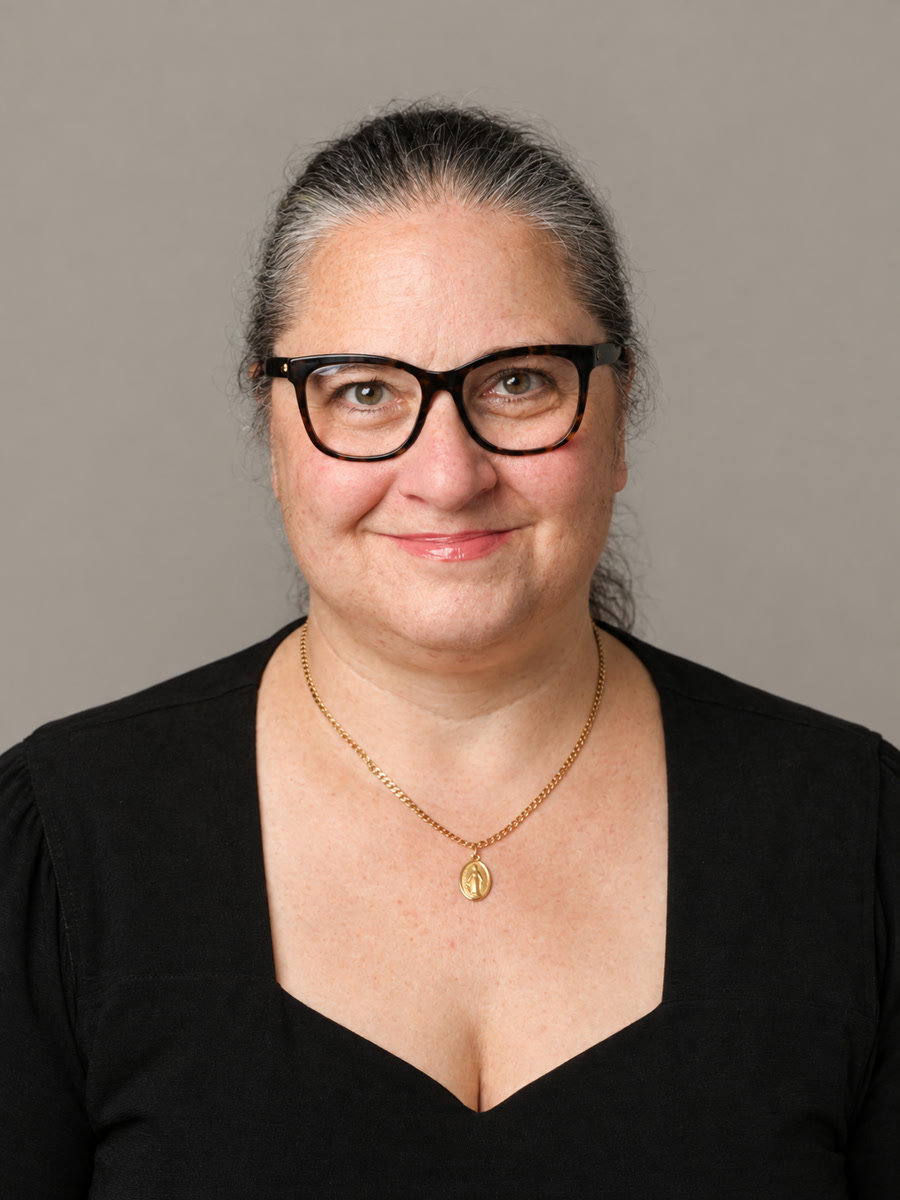
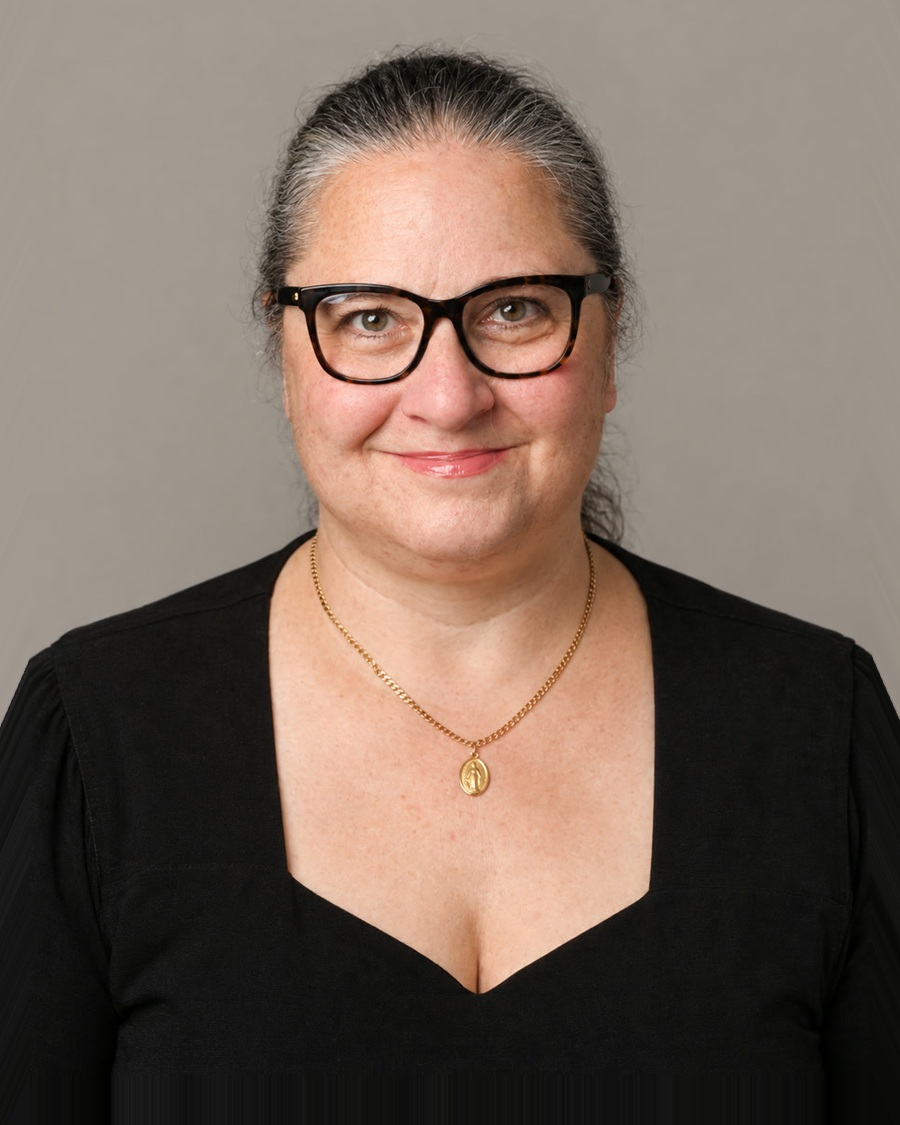
Restore beige; center Manuela; normalize head scale; strengthen matched instructor bios

Changed region(s): [[0.0, 0.0311, 0.9956, 0.9333], [0.9956, 0.6222, 1.0, 0.6533]]

diff --git a/css/fa-capsules-launch-design.css b/css/fa-capsules-launch-design.css
@@ -9,8 +9,8 @@ html:root:root:root:root:root body#fa.cap-page .kps-card .what {
   min-height: 3.75em;
 }
 .cap-faculty {
-  background: #050505;
-  color: #ffffff;
+  background: #f3efe9;
+  color: #0b0b2a;
   padding: clamp(72px, 7vw, 112px) 0;
 }
 .cap-faculty > .kps-wrap { width: calc(100% - 144px); max-width: 1440px; }
@@ -22,9 +22,9 @@ html:root:root:root:root:root body#fa .cap-faculty-head h2 {
   font-weight: 500;
   letter-spacing: -.025em;
   margin: 0;
-  color: #ffffff;
+  color: #0b0b2a;
 }
-.cap-faculty-head h2 span { color: #65b8ff; }
+.cap-faculty-head h2 span { color: #74603b; }
 .cap-faculty-head > p { font: 400 20px/1.55 var(--sans); max-width: 750px; }
 .cap-faculty-grid { display: grid; grid-template-columns: repeat(3, minmax(0,1fr)); gap: 64px; align-items: start; }
 .cap-teacher { min-width: 0; }
@@ -40,25 +40,28 @@ html:root:root:root:root:root body#fa .cap-portrait img {
   width: 100% !important;
   height: 100% !important;
   object-fit: cover !important;
-  object-position: center 32%;
+  object-position: center center;
 }
 html:root:root:root:root:root body#fa .cap-teacher-featured .cap-portrait img {
-  object-position: center 100%;
+  object-position: center center;
 }
 .cap-teacher-copy { padding: 36px 0 0; }
-.cap-theme { font: 700 17px/1.4 var(--sans); color: #65b8ff; margin: 0 0 10px; }
+.cap-theme { font: 700 17px/1.4 var(--sans); color: #70572c; margin: 0 0 10px; }
 html:root:root:root:root:root body#fa .cap-teacher h3 {
   font: 500 clamp(34px,3.15vw,50px)/1.08 var(--serif) !important;
-  color: #ffffff !important;
+  color: #0b0b2a !important;
   letter-spacing: -.02em;
   margin: 0 0 16px;
 }
-html:root:root:root:root:root body#fa .cap-role { font: 500 22px/1.45 var(--sans) !important; min-height: 2.9em; color: #65b8ff; margin: 0 0 24px; }
-html:root:root:root:root:root body#fa .cap-bio { font: 400 26px/1.5 var(--sans) !important; color: #f1f6ff; margin: 0; }
+html:root:root:root:root:root body#fa .cap-role { font: 500 22px/1.45 var(--sans) !important; min-height: 2.9em; color: #70572c; margin: 0 0 24px; }
+html:root:root:root:root:root body#fa .cap-bio { font: 400 26px/1.5 var(--sans) !important; color: #26354b; margin: 0; }
 .cap-bio-break { display: none; }
 .cap-teacher-featured .cap-portrait { outline: none; }
 #watch .kpx-frame video { display: block; width: 100%; height: 100%; object-fit: contain; }
 .cap-film-caption { font: 400 18px/1.4 var(--sans); color: #e8eeff; }
+@media (min-width: 701px) and (max-width: 1399px) {
+  .cap-bio br { display: none; }
+}
 @media(max-width: 900px) {
   .cap-faculty > .kps-wrap { width: calc(100% - 64px); }
   .cap-faculty-grid { gap: 40px; grid-template-columns: 1fr; }

diff --git a/culture-capsules.html b/culture-capsules.html
@@ -293,28 +293,28 @@
       <h2 id="cap-faculty-title">Meet your<br><span>French culture insiders.</span></h2>
     </div>
     <div class="cap-faculty-grid">
-      <article class="cap-teacher cap-teacher-featured">
-        <div class="cap-portrait"><img src="assets/teachers/capsules/manuela.jpg" alt="Manuela Breschi" width="600" height="800" loading="lazy" decoding="async"></div>
-        <div class="cap-teacher-copy">
-          <h3>Manuela Breschi</h3>
-          <p class="cap-role">Fashion &amp; luxury professional</p>
-          <p class="cap-bio">Christian Dior. ESSEC MBA.<br> 20+ years in recruitment.</p>
-        </div>
-      </article>
       <article class="cap-teacher">
         <div class="cap-portrait"><img src="assets/teachers/capsules/vicky.jpg" alt="Vicky Bourdenecc" width="600" height="800" loading="lazy" decoding="async"></div>
         <div class="cap-teacher-copy">
           <h3>Vicky Bourdenecc</h3>
-          <p class="cap-role">Wine expert &amp; language educator</p>
-          <p class="cap-bio">WSET Technical Editor.<br> International wine juror.<br> 15+ years teaching.</p>
+          <p class="cap-role">Wine &amp; Gastronomy Instructor</p>
+          <p class="cap-bio"><strong>WSET Technical Editor</strong> and<br> international wine juror, with<br> 15+ years teaching across Europe.</p>
+        </div>
+      </article>
+      <article class="cap-teacher cap-teacher-featured">
+        <div class="cap-portrait"><img src="assets/teachers/capsules/manuela.jpg" alt="Manuela Breschi" width="600" height="800" loading="lazy" decoding="async"></div>
+        <div class="cap-teacher-copy">
+          <h3>Manuela Breschi</h3>
+          <p class="cap-role">Fashion &amp; Luxury Instructor</p>
+          <p class="cap-bio">From <strong>Christian Dior</strong> to recruiting<br> creative talent for luxury brands.<br> ESSEC MBA. 20+ years recruiting.</p>
         </div>
       </article>
       <article class="cap-teacher">
         <div class="cap-portrait"><img src="assets/teachers/capsules/shaina.jpg" alt="Shaina Abdellaoui" width="600" height="800" loading="lazy" decoding="async"></div>
         <div class="cap-teacher-copy">
           <h3>Shaina Abdellaoui</h3>
-          <p class="cap-role">Cinema &amp; visual arts graduate</p>
-          <p class="cap-bio">Exploring the films and music<br> that shape French culture.</p>
+          <p class="cap-role">Cinema &amp; Music Instructor</p>
+          <p class="cap-bio">A <strong>cinema-trained instructor</strong><br> bringing French film, music<br> and the stories behind them to life.</p>
         </div>
       </article>
     </div>
